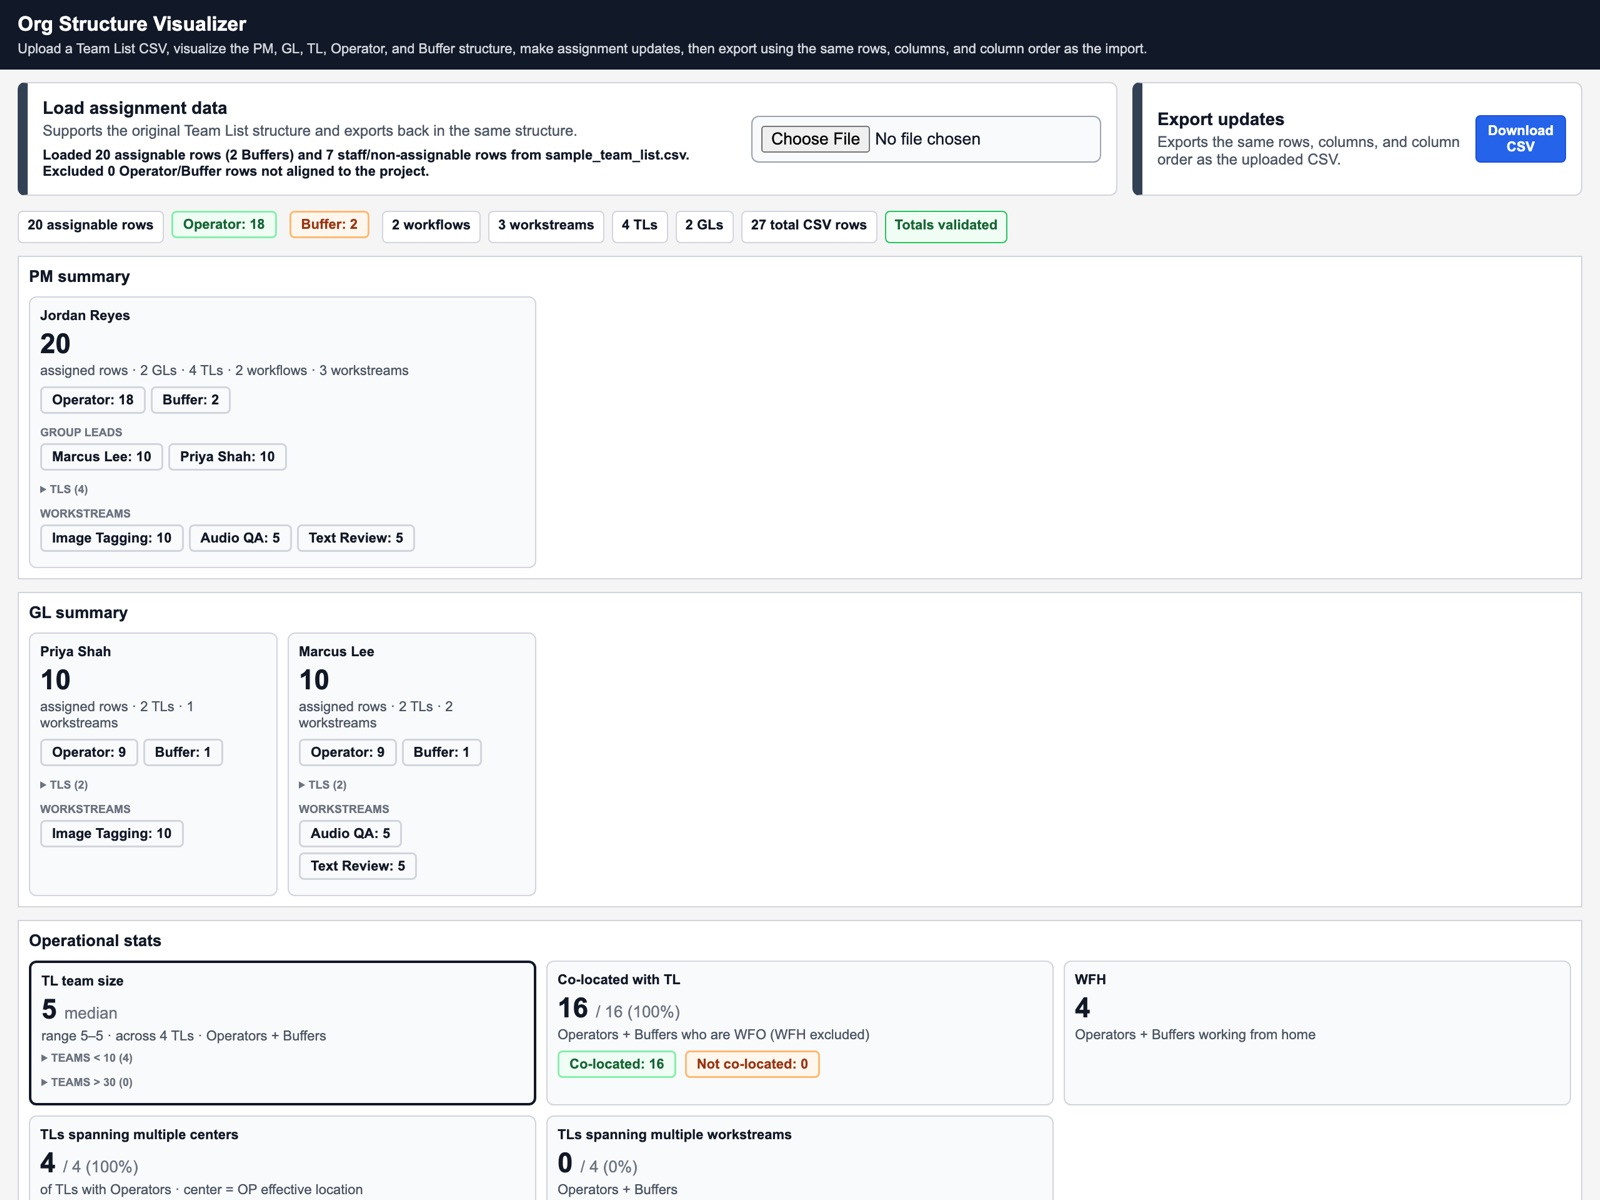
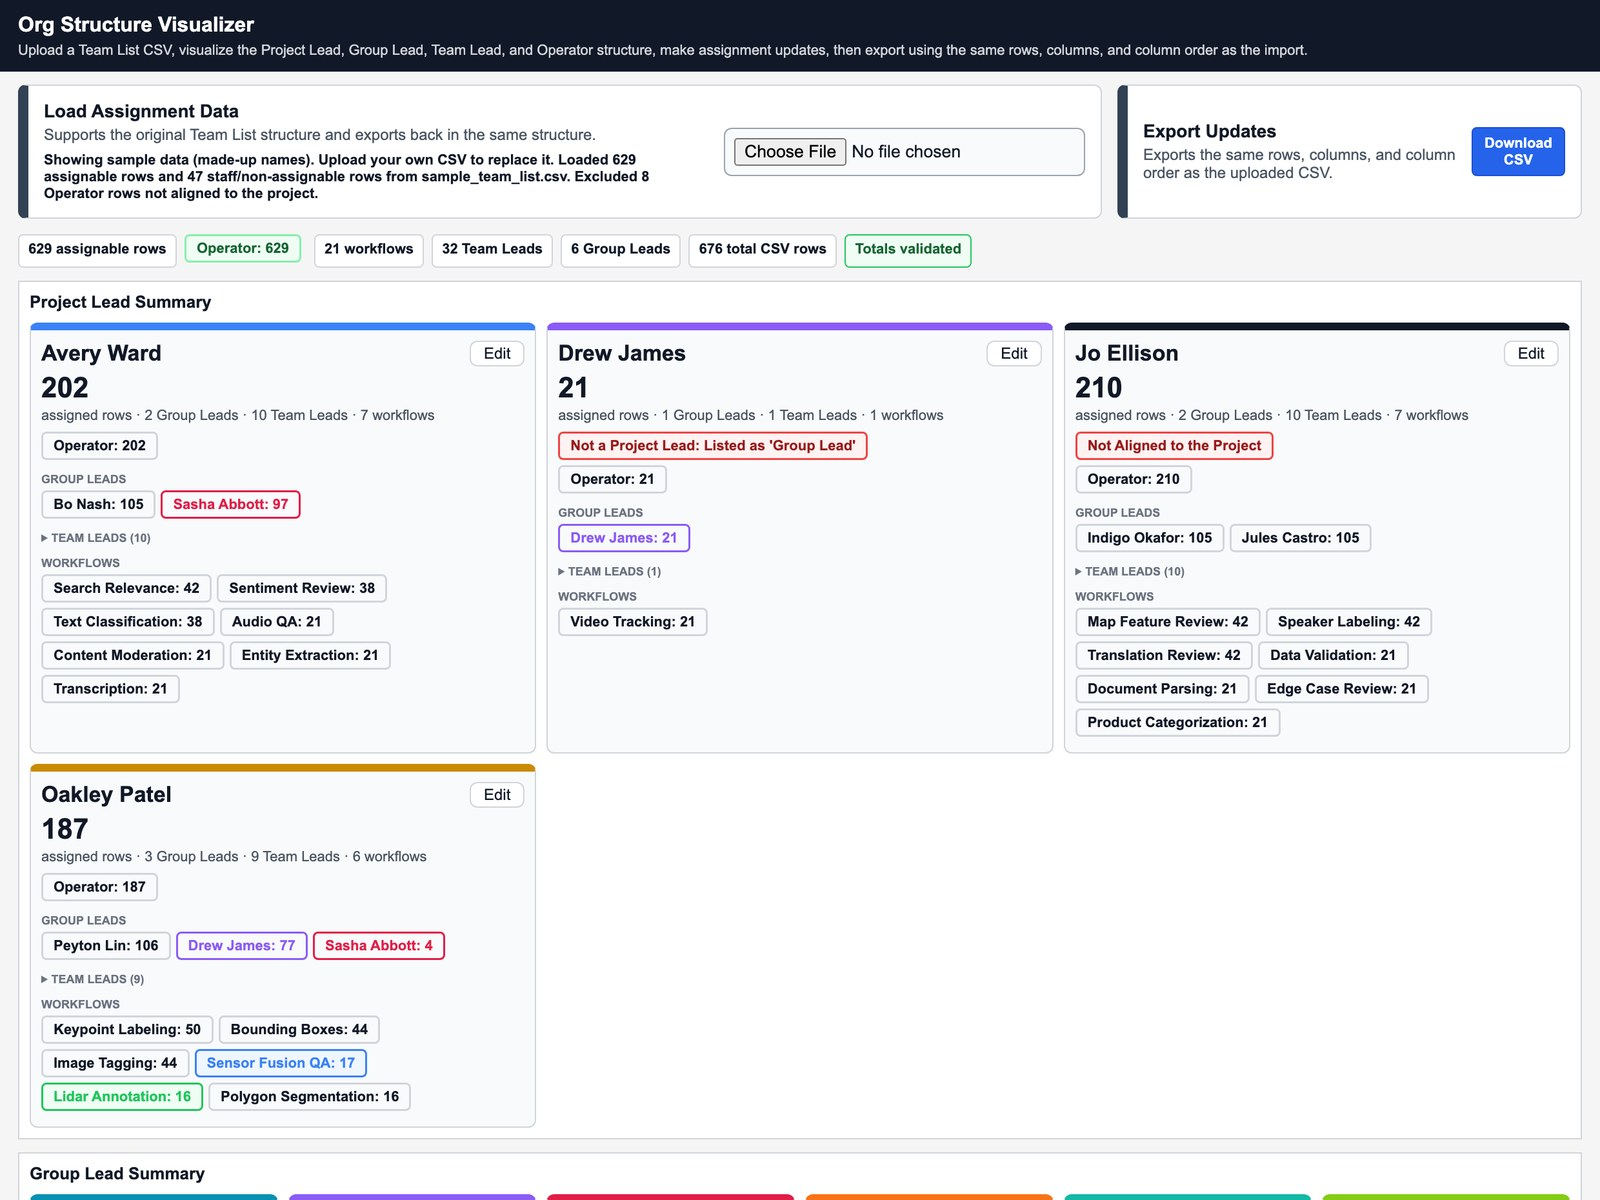
Projects: new Org Structure Visualizer screenshot (current sample data, wide layout)

Changed region(s): [[0.0, 0.0, 1.0, 1.0], [0.6562, 0.8017, 0.6875, 0.8633], [0.7188, 0.8325, 0.75, 0.8633]]

diff --git a/index.html b/index.html
@@ -559,7 +559,7 @@
       <div class="projects">
 
         <article class="project is-selected" id="project-org">
-          <div class="shot"><img src="images/org-structure.jpg" alt="Org Structure Visualizer loaded with a sample team of 20 operators and buffers, showing PM, group lead and team lead summaries and operational stats" loading="lazy"></div>
+          <div class="shot"><img src="images/org-structure.jpg" alt="Org Structure Visualizer with sample data: upload and export panels, summary counts (629 assignable rows, 21 workflows, 6 group leads), and Project Lead cards with group leads, workflows and flagged issues like Not Aligned to the Project" loading="lazy"></div>
           <div class="project-text">
             <p class="eyebrow"><time datetime="2026-07">JUL 2026</time></p>
             <h3><span class="project-num">03</span>Org Structure Visualizer</h3>
@@ -605,7 +605,7 @@
         <p class="eyebrow"><time datetime="2026-07">JUL 2026</time></p>
         <h2 id="details-org-title"><span class="project-num">03</span>Org Structure Visualizer</h2>
         <p class="lede">Turns a team roster CSV into a clear org structure, with headcount summaries, data checks and auto-balanced team leads.</p>
-        <img class="detail-shot" src="images/org-structure.jpg" alt="Org Structure Visualizer loaded with a sample team of 20 operators and buffers, showing PM, group lead and team lead summaries and operational stats">
+        <img class="detail-shot" src="images/org-structure.jpg" alt="Org Structure Visualizer with sample data: upload and export panels, summary counts (629 assignable rows, 21 workflows, 6 group leads), and Project Lead cards with group leads, workflows and flagged issues like Not Aligned to the Project">
         <div class="detail-grid">
           <div>
             <h3>What it does</h3>
